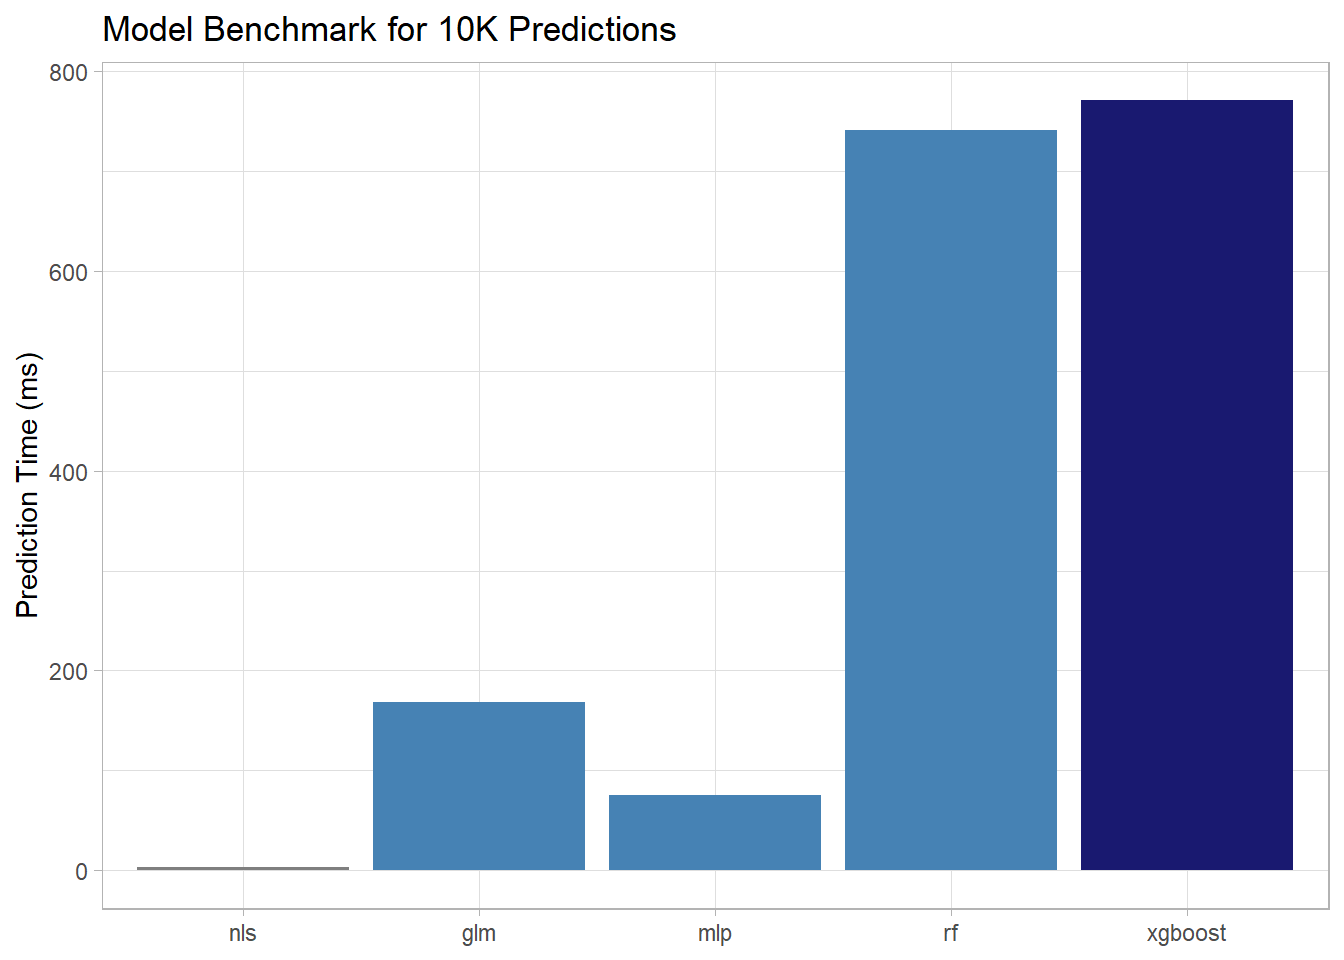
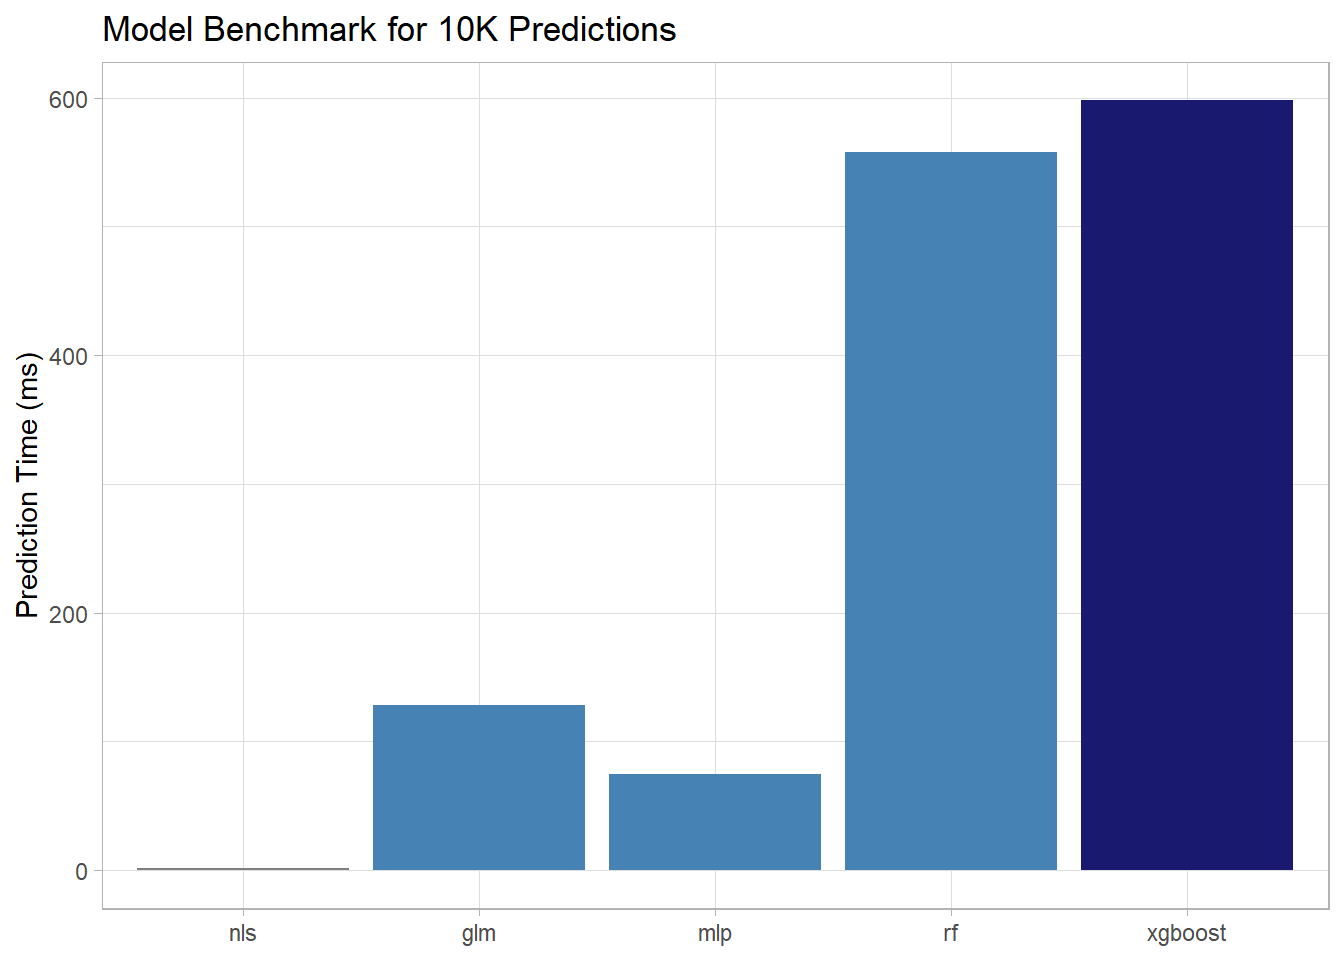
Add categories and code-fold to concrete summary post

diff --git a/docs/posts/2022-10-07_ConcreteSummary/2022-10-07_ConcreteSummary.html b/docs/posts/2022-10-07_ConcreteSummary/2022-10-07_ConcreteSummary.html
@@ -161,7 +161,10 @@ code span.wa { color: #60a0b0; font-weight: bold; font-style: italic; } /* Warni
   <div class="quarto-title-banner page-columns page-full">
     <div class="quarto-title column-body">
       <h1 class="title">Summary of Concrete Models</h1>
-                      </div>
+                                <div class="quarto-categories">
+                <div class="quarto-category">tidymodels</div>
+              </div>
+                  </div>
   </div>
     
   
@@ -199,12 +202,17 @@ code span.wa { color: #60a0b0; font-weight: bold; font-style: italic; } /* Warni
 <section id="load-libraries-and-data" class="level2">
 <h2 class="anchored" data-anchor-id="load-libraries-and-data">Load libraries and data</h2>
 <div class="cell">
+<details>
+<summary>Code</summary>
 <div class="sourceCode cell-code" id="cb1"><pre class="sourceCode r code-with-copy"><code class="sourceCode r"><span id="cb1-1"><a href="#cb1-1" aria-hidden="true" tabindex="-1"></a><span class="fu">library</span>(knitr)</span>
 <span id="cb1-2"><a href="#cb1-2" aria-hidden="true" tabindex="-1"></a><span class="fu">library</span>(readxl)</span>
 <span id="cb1-3"><a href="#cb1-3" aria-hidden="true" tabindex="-1"></a><span class="fu">library</span>(tidyverse)</span>
 <span id="cb1-4"><a href="#cb1-4" aria-hidden="true" tabindex="-1"></a><span class="fu">library</span>(tidymodels)</span></code><button title="Copy to Clipboard" class="code-copy-button"><i class="bi"></i></button></pre></div>
+</details>
 </div>
 <div class="cell">
+<details>
+<summary>Code</summary>
 <div class="sourceCode cell-code" id="cb2"><pre class="sourceCode r code-with-copy"><code class="sourceCode r"><span id="cb2-1"><a href="#cb2-1" aria-hidden="true" tabindex="-1"></a>filename <span class="ot">&lt;-</span> <span class="st">"Concrete_Data.xls"</span></span>
 <span id="cb2-2"><a href="#cb2-2" aria-hidden="true" tabindex="-1"></a></span>
 <span id="cb2-3"><a href="#cb2-3" aria-hidden="true" tabindex="-1"></a>folder <span class="ot">&lt;-</span> <span class="st">"../data/"</span></span>
@@ -223,6 +231,7 @@ code span.wa { color: #60a0b0; font-weight: bold; font-style: italic; } /* Warni
 <span id="cb2-16"><a href="#cb2-16" aria-hidden="true" tabindex="-1"></a>  <span class="fu">rename</span>(<span class="at">fine_aggregate =</span> <span class="fu">starts_with</span>(<span class="st">"Fine"</span>)) <span class="sc">%&gt;%</span></span>
 <span id="cb2-17"><a href="#cb2-17" aria-hidden="true" tabindex="-1"></a>  <span class="fu">rename</span>(<span class="at">age =</span> <span class="fu">starts_with</span>(<span class="st">"Age"</span>)) <span class="sc">%&gt;%</span></span>
 <span id="cb2-18"><a href="#cb2-18" aria-hidden="true" tabindex="-1"></a>  <span class="fu">rename</span>(<span class="at">compressive_strength =</span> <span class="fu">starts_with</span>(<span class="st">"Concrete"</span>))</span></code><button title="Copy to Clipboard" class="code-copy-button"><i class="bi"></i></button></pre></div>
+</details>
 </div>
 </section>
 <section id="predictive-accuracy" class="level2">
@@ -281,19 +290,27 @@ code span.wa { color: #60a0b0; font-weight: bold; font-style: italic; } /* Warni
 <h2 class="anchored" data-anchor-id="benchmark-performance">Benchmark performance</h2>
 <p>Here we load the final models for the different approaches for comparison of prediction time. In this case, the time to make predictions for 10,300 (10 times the original dataset) was determined as a benchmark.</p>
 <div class="cell">
+<details>
+<summary>Code</summary>
 <div class="sourceCode cell-code" id="cb3"><pre class="sourceCode r code-with-copy"><code class="sourceCode r"><span id="cb3-1"><a href="#cb3-1" aria-hidden="true" tabindex="-1"></a><span class="co">#load all the models</span></span>
 <span id="cb3-2"><a href="#cb3-2" aria-hidden="true" tabindex="-1"></a>concrete_nls <span class="ot">&lt;-</span> <span class="fu">readRDS</span>(<span class="st">"../results/concrete_nls_model.rds"</span>)</span>
 <span id="cb3-3"><a href="#cb3-3" aria-hidden="true" tabindex="-1"></a>concrete_glm <span class="ot">&lt;-</span> <span class="fu">readRDS</span>(<span class="st">"../results/concrete_glm_model.rds"</span>)</span>
 <span id="cb3-4"><a href="#cb3-4" aria-hidden="true" tabindex="-1"></a>concrete_mlp <span class="ot">&lt;-</span> <span class="fu">readRDS</span>(<span class="st">"../results/concrete_mlp_model.rds"</span>)</span>
 <span id="cb3-5"><a href="#cb3-5" aria-hidden="true" tabindex="-1"></a>concrete_rf <span class="ot">&lt;-</span> <span class="fu">readRDS</span>(<span class="st">"../results/concrete_rf_model.rds"</span>)</span>
 <span id="cb3-6"><a href="#cb3-6" aria-hidden="true" tabindex="-1"></a>concrete_xgb <span class="ot">&lt;-</span> <span class="fu">readRDS</span>(<span class="st">"../results/concrete_xgb_model.rds"</span>)</span></code><button title="Copy to Clipboard" class="code-copy-button"><i class="bi"></i></button></pre></div>
+</details>
 </div>
 <p>Create the prediction dataset using 10 times the original dataset for purpose of comparing very fast prediction times.</p>
 <div class="cell">
+<details>
+<summary>Code</summary>
 <div class="sourceCode cell-code" id="cb4"><pre class="sourceCode r code-with-copy"><code class="sourceCode r"><span id="cb4-1"><a href="#cb4-1" aria-hidden="true" tabindex="-1"></a>temp <span class="ot">&lt;-</span> concrete_tbl <span class="sc">%&gt;%</span> <span class="fu">slice</span>(<span class="fu">rep</span>(<span class="fu">row_number</span>(), <span class="dv">10</span>))</span></code><button title="Copy to Clipboard" class="code-copy-button"><i class="bi"></i></button></pre></div>
+</details>
 </div>
 <p>Benchmarking was performed in the following manner using Sys.time to capture the time before and after each set of model predictions.</p>
 <div class="cell">
+<details>
+<summary>Code</summary>
 <div class="sourceCode cell-code" id="cb5"><pre class="sourceCode r code-with-copy"><code class="sourceCode r"><span id="cb5-1"><a href="#cb5-1" aria-hidden="true" tabindex="-1"></a>begin <span class="ot">&lt;-</span> <span class="fu">Sys.time</span>()</span>
 <span id="cb5-2"><a href="#cb5-2" aria-hidden="true" tabindex="-1"></a>a_temp <span class="ot">&lt;-</span> <span class="fu">predict</span>(concrete_nls, <span class="at">new_data =</span> temp)</span>
 <span id="cb5-3"><a href="#cb5-3" aria-hidden="true" tabindex="-1"></a>end1 <span class="ot">&lt;-</span> <span class="fu">Sys.time</span>()</span>
@@ -316,6 +333,7 @@ code span.wa { color: #60a0b0; font-weight: bold; font-style: italic; } /* Warni
 <span id="cb5-20"><a href="#cb5-20" aria-hidden="true" tabindex="-1"></a><span class="co"># print(end4 - end3)[[1]]</span></span>
 <span id="cb5-21"><a href="#cb5-21" aria-hidden="true" tabindex="-1"></a></span>
 <span id="cb5-22"><a href="#cb5-22" aria-hidden="true" tabindex="-1"></a><span class="co">#rm(temp)</span></span></code><button title="Copy to Clipboard" class="code-copy-button"><i class="bi"></i></button></pre></div>
+</details>
 </div>
 <p>As shown in the figure and table below, the xgboost model was the slowest taking about 1 second to perform 10,300 predictions. For the example of making a prediction of compressive strength of concrete for a particular formulation, however, this amount of time is trivial and the increased accuracy would be preferred over a faster and less accurate model.</p>
 <div class="cell">
@@ -335,11 +353,11 @@ code span.wa { color: #60a0b0; font-weight: bold; font-style: italic; } /* Warni
 <tbody>
 <tr class="odd">
 <td style="text-align: left;">nls</td>
-<td style="text-align: right;">3</td>
+<td style="text-align: right;">2</td>
 </tr>
 <tr class="even">
 <td style="text-align: left;">glm</td>
-<td style="text-align: right;">168</td>
+<td style="text-align: right;">128</td>
 </tr>
 <tr class="odd">
 <td style="text-align: left;">mlp</td>
@@ -347,11 +365,11 @@ code span.wa { color: #60a0b0; font-weight: bold; font-style: italic; } /* Warni
 </tr>
 <tr class="even">
 <td style="text-align: left;">rf</td>
-<td style="text-align: right;">741</td>
+<td style="text-align: right;">558</td>
 </tr>
 <tr class="odd">
 <td style="text-align: left;">xgboost</td>
-<td style="text-align: right;">771</td>
+<td style="text-align: right;">598</td>
 </tr>
 </tbody>
 </table>

diff --git a/docs/blog.html b/docs/blog.html
@@ -144,7 +144,7 @@ ul.task-list{list-style: none;}
 <!-- margin-sidebar -->
     <div id="quarto-margin-sidebar" class="sidebar margin-sidebar">
         
-    <h5 class="quarto-listing-category-title">Categories</h5><div class="quarto-listing-category category-default"><div class="category" data-category="">All <span class="quarto-category-count">(10)</span></div><div class="category" data-category="analysis">analysis <span class="quarto-category-count">(1)</span></div><div class="category" data-category="code">code <span class="quarto-category-count">(1)</span></div><div class="category" data-category="news">news <span class="quarto-category-count">(2)</span></div><div class="category" data-category="tidymodels">tidymodels <span class="quarto-category-count">(4)</span></div></div></div>
+    <h5 class="quarto-listing-category-title">Categories</h5><div class="quarto-listing-category category-default"><div class="category" data-category="">All <span class="quarto-category-count">(10)</span></div><div class="category" data-category="analysis">analysis <span class="quarto-category-count">(1)</span></div><div class="category" data-category="code">code <span class="quarto-category-count">(1)</span></div><div class="category" data-category="news">news <span class="quarto-category-count">(2)</span></div><div class="category" data-category="tidymodels">tidymodels <span class="quarto-category-count">(5)</span></div></div></div>
 <!-- main -->
 <main class="content quarto-banner-title-block column-page-left" id="quarto-document-content">
 
@@ -157,7 +157,7 @@ ul.task-list{list-style: none;}
 
 <div class="quarto-listing quarto-listing-container-default" id="listing-listing">
 <div class="list quarto-listing-default">
-<div class="quarto-post image-right" data-index="0" data-listing-date-sort="1665118800000" data-listing-file-modified-sort="1661893821957" data-listing-reading-time-sort="4.27">
+<div class="quarto-post image-right" data-index="0" data-categories="tidymodels" data-listing-date-sort="1665118800000" data-listing-file-modified-sort="1661980603908" data-listing-reading-time-sort="4.27">
 <div class="thumbnail">
 <a href="./posts/2022-10-07_ConcreteSummary/2022-10-07_ConcreteSummary.html">
 <div class="thumbnail-image">
@@ -173,6 +173,13 @@ Summary of Concrete Models
 <div class="listing-subtitle">
 
 </div>
+</a>
+<div class="listing-categories">
+<div class="listing-category" onclick="window.quartoListingCategory('tidymodels'); return false;">
+tidymodels
+</div>
+</div>
+<a href="./posts/2022-10-07_ConcreteSummary/2022-10-07_ConcreteSummary.html">
 <div class="listing-description">
 A comparison of the predictive performance and speed for the different modeling approaches.
 </div>

diff --git a/docs/archive.html b/docs/archive.html
@@ -153,7 +153,7 @@ ul.task-list{list-style: none;}
 
 <div class="quarto-listing quarto-listing-container-default" id="listing-listing">
 <div class="list quarto-listing-default">
-<div class="quarto-post image-right" data-index="0" data-listing-date-sort="1665118800000" data-listing-file-modified-sort="1661893821957" data-listing-reading-time-sort="4.27">
+<div class="quarto-post image-right" data-index="0" data-categories="tidymodels" data-listing-date-sort="1665118800000" data-listing-file-modified-sort="1661980603908" data-listing-reading-time-sort="4.27">
 <div class="body">
 <a href="./posts/2022-10-07_ConcreteSummary/2022-10-07_ConcreteSummary.html">
 <h3 class="no-anchor listing-title">
